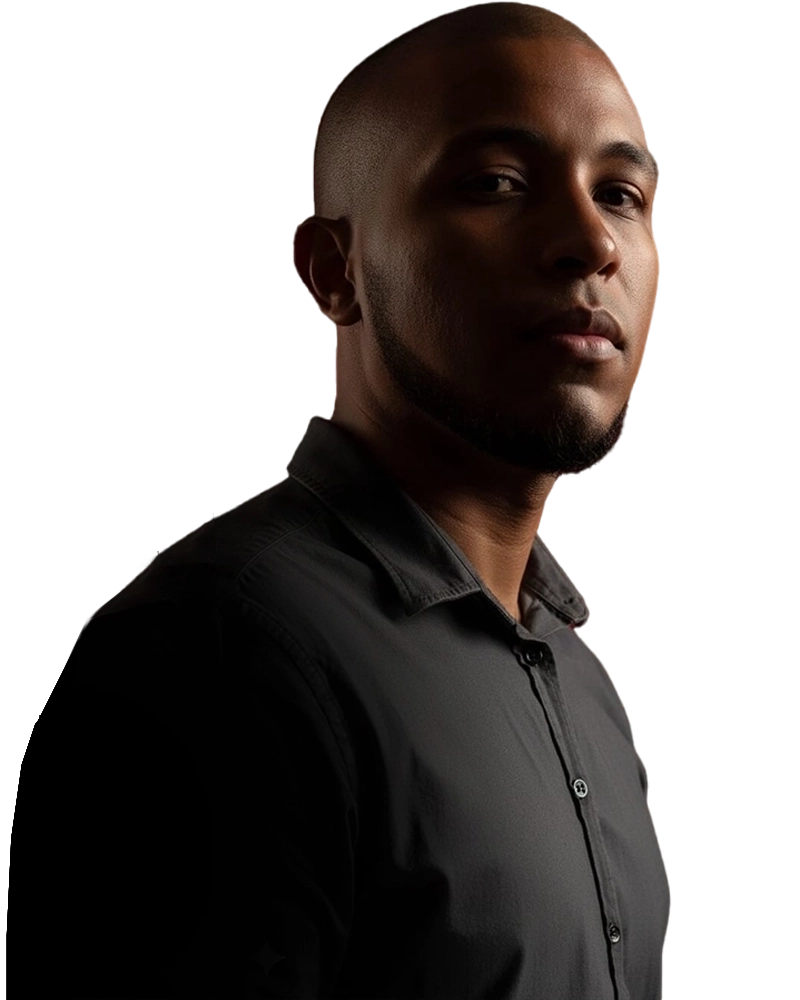
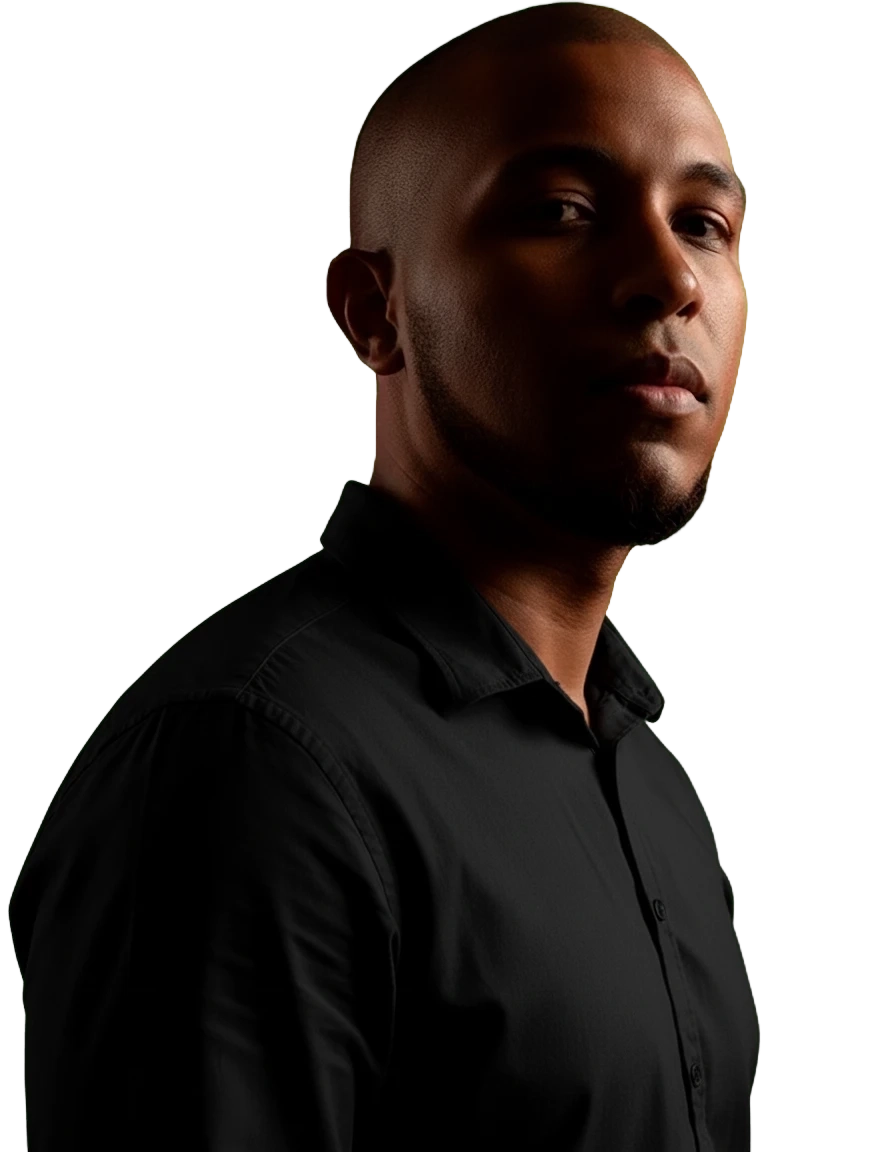
Novos ajustes de cada seção do site

diff --git a/src/components/AboutSection.tsx b/src/components/AboutSection.tsx
@@ -1,57 +1,55 @@
 import { useRef } from 'react';
 import logoLight from '@/assets/logolight.svg';
-import sobreDark from '@/assets/sobre.webp';      // Modo Escuro
-import sobreLight from '@/assets/sobre-white.webp'; // Modo Claro
+import sobreDark from '@/assets/sobre.webp';      
+import sobreLight from '@/assets/sobre-white.webp'; 
 
 const AboutSection = () => {
   const sectionRef = useRef<HTMLElement>(null);
 
-  // Definição das classes de estilo compartilhadas para a imagem grande
-  const sharedImageClasses = `
+  // CONFIGURAÇÃO DA IMAGEM
+  // lg:-mr-32 -> Puxa a imagem para a direita (centro da tela)
+  // lg:ml-8   -> Dá espaço para o texto na esquerda
+  // shape-margin -> Empurra o texto para não encostar na foto
+  const sharedImageStyles = `
     lg:float-right 
-    lg:w-[48%] lg:max-w-[600px] h-auto 
-    object-contain 
-    lg:ml-12 lg:mb-8 z-10 relative
-    [shape-margin:2.5rem]
+    w-auto 
+    object-contain object-bottom
+    lg:ml-8 lg:-mr-32 lg:-mb-20 z-10 relative
+    [shape-margin:3rem] 
     drop-shadow-2xl
   `;
+
+  // --- CONTROLE DE ALTURA DA FOTO ---
+  const imageHeightClass = "lg:h-[700px] xl:h-[850px]"; 
 
   return (
     <section ref={sectionRef} id="sobre" className="section-snap bg-background scroll-mt-16 flex items-center min-h-[90vh] py-20">
       <div className="container mx-auto px-4 h-full flex items-center">
         
-        {/* --- LAYOUT FLEX: JORNADA (Esq) + QUEM SOMOS (Dir) --- */}
         <div className="flex flex-col lg:flex-row gap-16 lg:gap-24 items-start animate-in slide-in-from-bottom-5 fade-in duration-700 w-full">
             
-            {/* --- LADO ESQUERDO: MINHA JORNADA + FOTO COM TEXT WRAP --- */}
+            {/* --- LADO ESQUERDO: TEXTO + FOTO --- */}
             <div className="lg:w-2/3 relative clearfix">
                <h2 className="font-display text-3xl md:text-4xl font-bold text-foreground mb-10">
                 MINHA <span className="text-primary">JORNADA</span>
               </h2>
 
-              {/* CORREÇÃO DE VISIBILIDADE E TAMANHO
-                  As regras agora são explícitas para evitar sobreposição.
-              */}
-
-              {/* IMAGEM MODO CLARO (sobre-white.webp) */}
+              {/* IMAGEM CLARA */}
               <img
                 src={sobreLight}
                 alt="Foto de Amaro Netto"
-                // Lógica: Escondido no mobile. No desktop (lg:block), mas ESCONDIDO se for dark mode (dark:lg:hidden).
-                className={`hidden lg:block dark:lg:hidden ${sharedImageClasses} [shape-outside:url('/src/assets/sobre-white.webp')]`}
+                className={`hidden lg:block dark:hidden ${sharedImageStyles} ${imageHeightClass} [shape-outside:url('/src/assets/sobre-white.webp')]`}
                 loading="lazy"
               />
 
-              {/* IMAGEM MODO ESCURO (sobre.webp) */}
+              {/* IMAGEM ESCURA */}
               <img
                 src={sobreDark}
                 alt="Foto de Amaro Netto"
-                // Lógica: Escondido sempre. Só APARECE no desktop se for dark mode (dark:lg:block).
-                className={`hidden dark:lg:block ${sharedImageClasses} [shape-outside:url('/src/assets/sobre.webp')]`}
+                className={`hidden dark:lg:block ${sharedImageStyles} ${imageHeightClass} [shape-outside:url('/src/assets/sobre.webp')]`}
                 loading="lazy"
               />
               
-              {/* Texto que irá contornar a imagem */}
               <div className="text-muted-foreground leading-relaxed text-lg text-justify [text-align-last:left] relative z-20">
                 <p className="mb-8">
                   Com mais de 10 anos de experiência imersiva em tecnologia, construí uma carreira sólida 
@@ -67,8 +65,8 @@ const AboutSection = () => {
               </div>
             </div>
 
-            {/* --- LADO DIREITO: QUEM SOMOS (CARD DA EMPRESA) --- */}
-            <div className="lg:w-1/3 flex flex-col justify-center items-center text-center p-10 bg-secondary/5 rounded-3xl border border-border/50 hover:border-primary/20 transition-all duration-500 shadow-lg hover:shadow-xl sticky top-32">
+            {/* --- LADO DIREITO: EMPRESA --- */}
+            <div className="lg:w-1/3 flex flex-col justify-center items-center text-center p-10 bg-secondary/5 rounded-3xl border border-border/50 hover:border-primary/20 transition-all duration-500 shadow-lg hover:shadow-xl sticky top-32 z-0">
                 <div className="mb-8 p-6 bg-primary/10 rounded-full">
                     <img 
                         src={logoLight} 

diff --git a/src/components/ExperienceSection.tsx b/src/components/ExperienceSection.tsx
@@ -144,16 +144,19 @@ const ExperienceSection = () => {
                       <p className="text-muted-foreground">Nenhuma experiência encontrada.</p>
                     )}
                     
-                    <div className="relative pl-4"> 
-                        {/* Linha Vertical */}
-                        <div className="absolute left-[5px] top-3 bottom-4 w-[2px] bg-border"></div>
+                    {/* CONTAINER DA TIMELINE AJUSTADO */}
+                    <div className="relative pl-8"> {/* Aumentado para 32px de espaço */}
+                        
+                        {/* Linha Vertical - Centralizada matematicamente com a bolinha */}
+                        <div className="absolute left-[15px] top-2 bottom-4 w-[2px] bg-border"></div>
                         
                         <div className="flex flex-col gap-6"> 
                         {displayedExperiences.map((exp) => (
-                            <div key={exp.id} className="flex items-start gap-6 group relative">
+                            <div key={exp.id} className="flex items-start gap-4 group relative">
                                 
-                                {/* Bolinha Minimalista */}
-                                <div className="absolute left-[-11px] top-[5px] z-10">
+                                {/* Bolinha Minimalista Alinhada */}
+                                {/* left -22px compensa o padding de 32px e centraliza a bolinha de 12px (w-3) em 16px */}
+                                <div className="absolute left-[-22px] top-[6px] z-10">
                                     <div className="w-3 h-3 bg-primary rounded-full ring-4 ring-background group-hover:scale-125 transition-transform duration-300 shadow-sm"></div>
                                 </div>
 

diff --git a/src/components/ContactSection.tsx b/src/components/ContactSection.tsx
@@ -268,10 +268,8 @@ const ContactSection = () => {
           </div>
         </div>
       </div>
-      
       {/* RODAPÉ INTEGRADO - Agora ele aparece no final desta seção */}
       <Footer />
-      
     </section>
   );
 };
